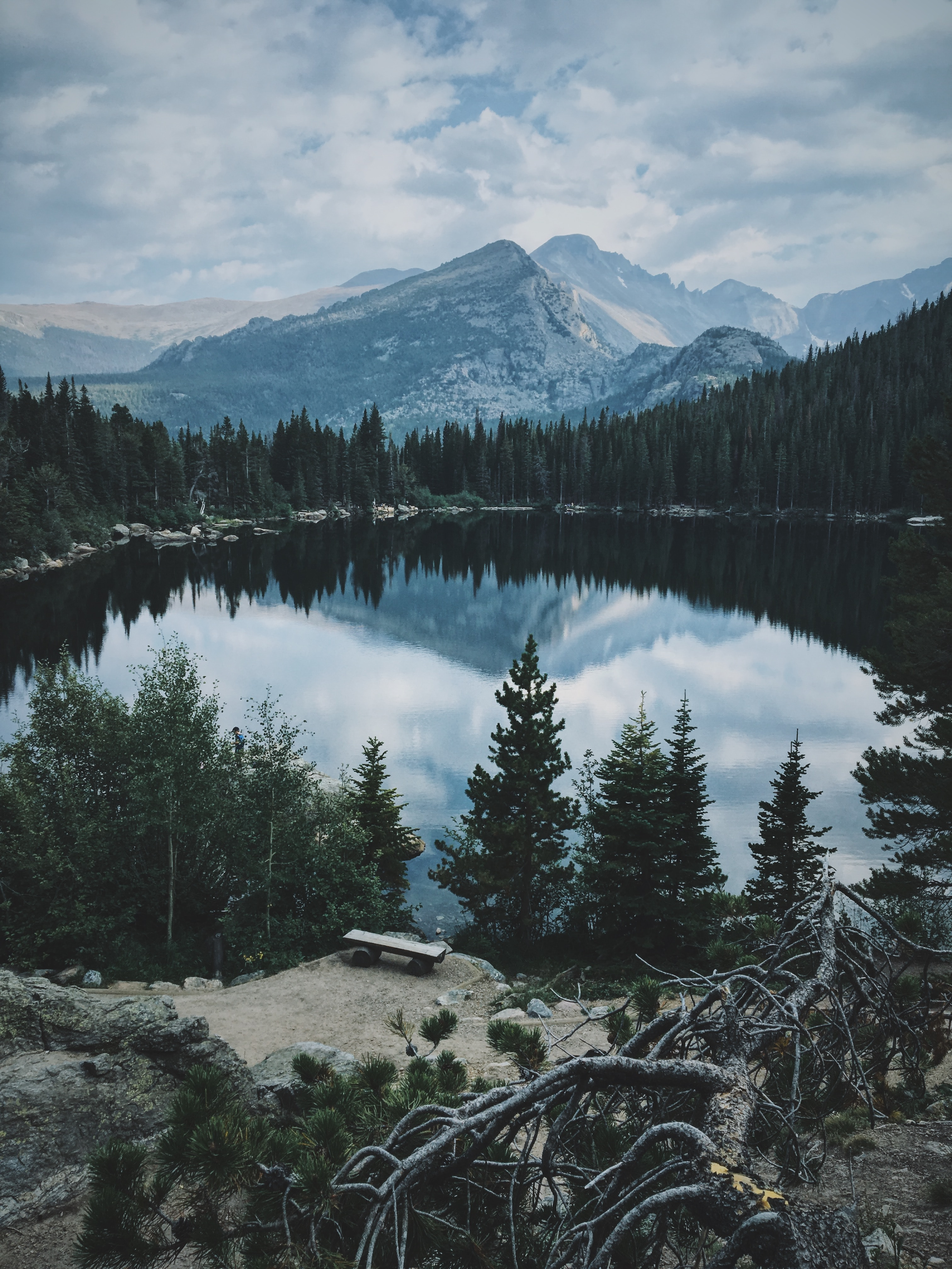
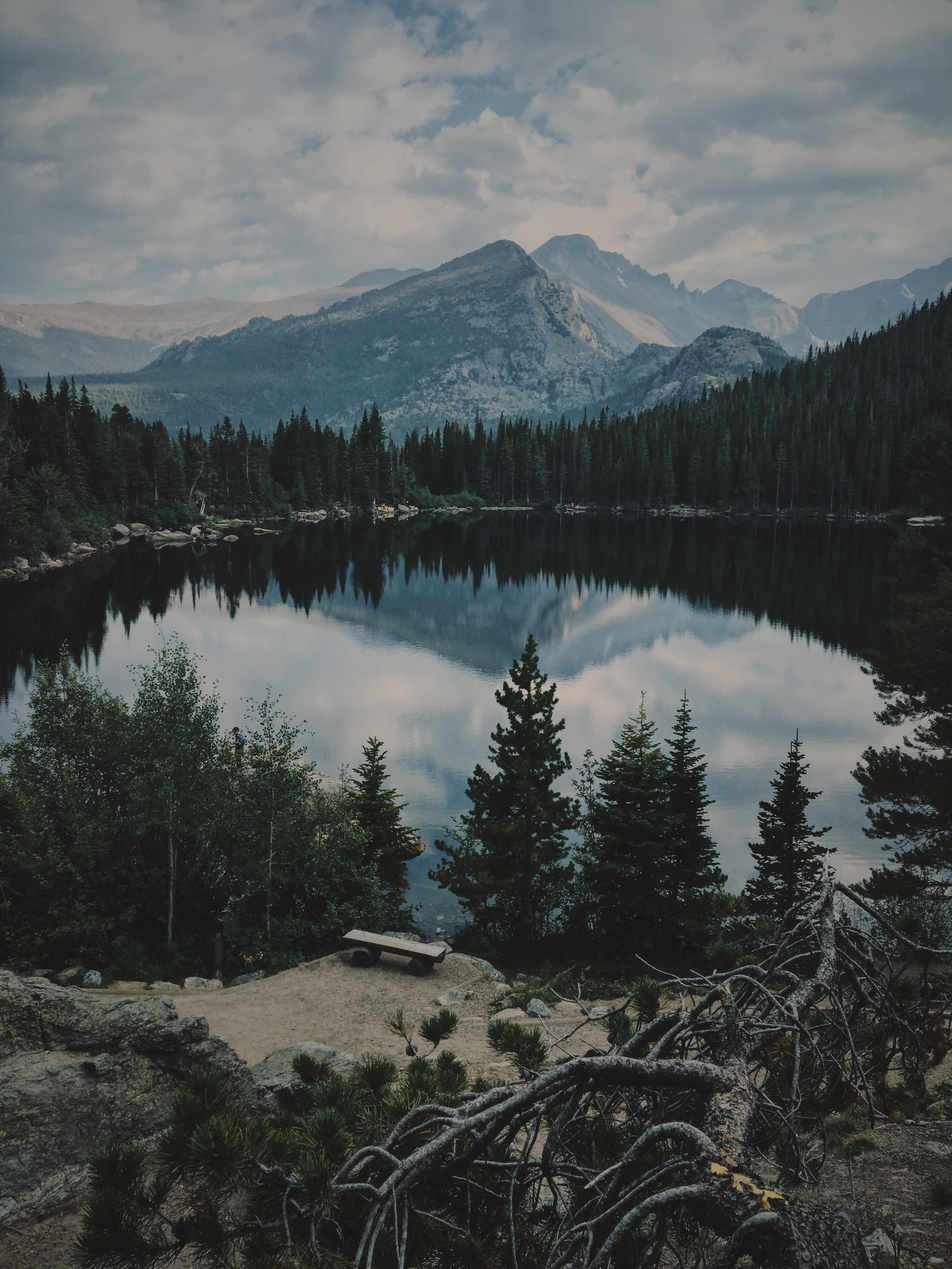
updated background image and header font

diff --git a/portfolio/index.html b/portfolio/index.html
@@ -17,7 +17,7 @@
 			<section id="header">
 				<header class="major">
 					<h1>Diana Grams</h1>
-					<p>I've been a full stack web development student at Lambda School since July 2019 and I'm on track to graduate in May 2020! <br> Through the projects I have built with Lambda School I have come to find that this is a career that I can really enjoy and get a lot out of! I hope you enjoy my projects as much as I enjoyed creating them! </p>
+					<p>I'm a full stack web development student at Lambda School on track to graduate in May 2020! <br> This is a sampling of my projects, you can view more on my Github and Codepen, both are linked below. I hope you enjoy my projects as much as I enjoyed creating them! </p>
 				</header>
 				<div class="container">
 					<ul class="actions special">

diff --git a/portfolio/assets/css/main.css b/portfolio/assets/css/main.css
@@ -1928,11 +1928,12 @@ input, select, textarea {
 	}
 
 	header p {
-		color: #a8b0b3;
+		color: #fcf9ea;
 		letter-spacing: 0.05em;
 		text-transform: uppercase;
-		width: 50vw !important;
+		width: 55vw !important;
 		margin: 0 auto !important;
+		padding-top: 20px !important;
 	}
 
 	header h1 + p {
